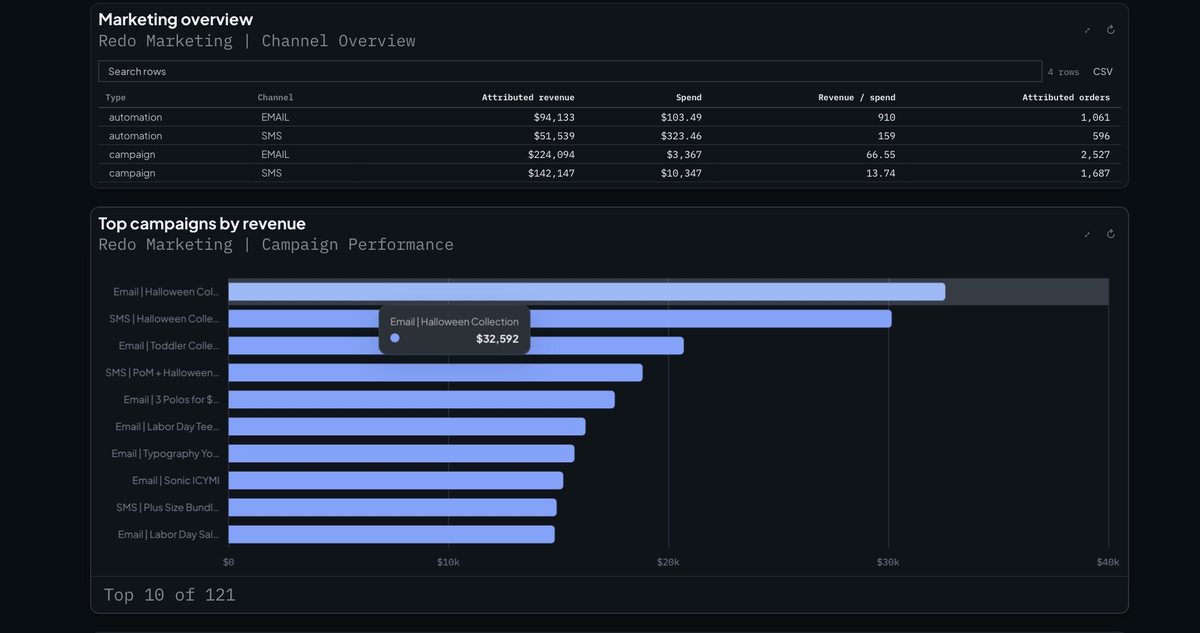
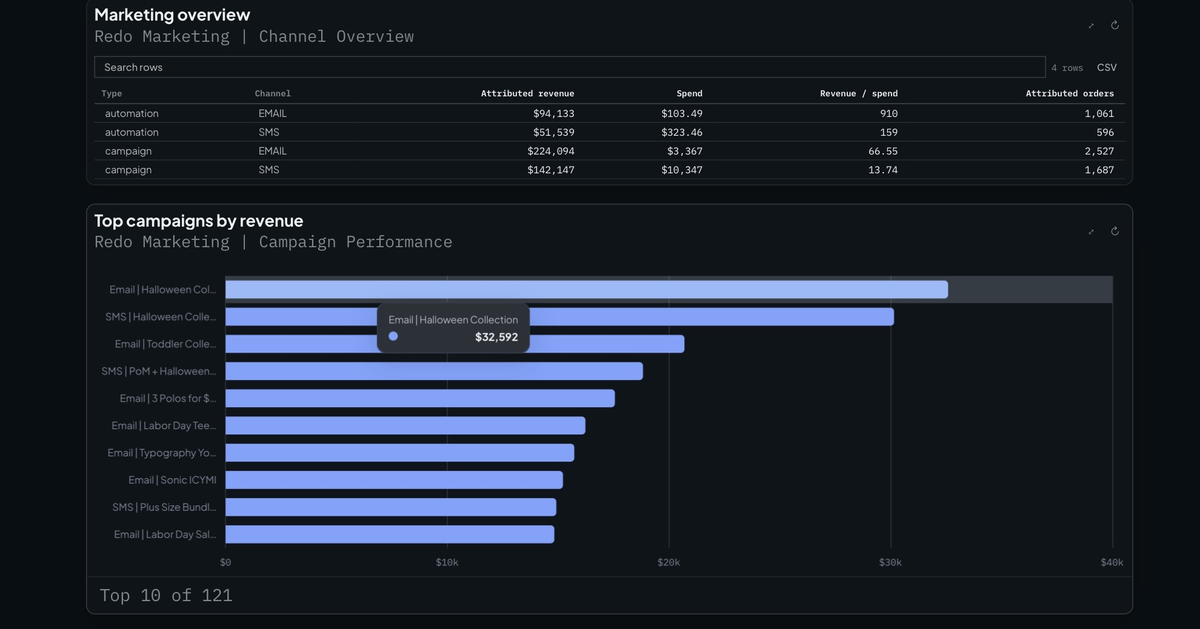
Redo welcome: AI-forward Ask preview and richer product frames
Replace the cramped Ask Silo screenshot with a structured HTML preview
(recommendation, evidence, query count). Re-crop marketing captures to
include KPI context and add gradient intelligence frames.

diff --git a/redo-welcome.html b/redo-welcome.html
@@ -6,7 +6,7 @@
   <title>Silo · Redo Marketing</title>
   <meta name="description" content="Silo connects to Redo and turns email and SMS into decision-ready reporting beside Shopify sales, ad spend, and margin. Ask Silo for the analysis. Early access for Redo Marketing customers." />
   <link rel="stylesheet" href="/v2/beacon.css" />
-  <link rel="stylesheet" href="/assets/landing/redo-welcome.css?v=5" />
+  <link rel="stylesheet" href="/assets/landing/redo-welcome.css?v=6" />
 </head>
 <body class="lp-demo-page">
   <svg xmlns="http://www.w3.org/2000/svg" class="lp-svg-defs" aria-hidden="true" focusable="false">
@@ -138,24 +138,30 @@
             <h3 id="lpBoardTitle">Redo Marketing Performance</h3>
             <span class="lp-board-range">Sample · Last 30 days</span>
           </header>
-          <p class="lp-board-note">Captures below are from a real Silo workspace; figures are Redo-attributed, not poster placeholders.</p>
+          <p class="lp-board-note">Live Silo boards — Redo-attributed revenue, spend, and campaign rank in the product you sign into.</p>
           <div class="lp-board-hero">
             <figure class="lp-demo">
-              <div class="lp-demo-frame">
-                <div id="lpDemoPlaceholder" class="lp-shot lp-shot--chart" data-asset="redo-demo-chart.png" data-alt="Daily Redo marketing spend trend">
-                  <p class="lp-shot-label">Interface image</p>
+              <div class="lp-intel-frame">
+                <span class="lp-intel-badge">Connected data</span>
+                <div class="lp-demo-frame">
+                  <div id="lpDemoPlaceholder" class="lp-shot lp-shot--chart" data-asset="redo-demo-chart.png" data-alt="Redo attributed revenue, spend, and daily trends">
+                    <p class="lp-shot-label">Interface image</p>
+                  </div>
+                  <!-- A real walkthrough replaces this frame only when LANDING_DEMO_VIDEO_URL is configured. -->
+                  <video id="lpDemoVideo" width="960" height="540" controls playsinline preload="none"
+                    aria-label="Silo product walkthrough" aria-describedby="lpDemoCaption" hidden></video>
                 </div>
-                <!-- A real walkthrough replaces this frame only when LANDING_DEMO_VIDEO_URL is configured. -->
-                <video id="lpDemoVideo" width="960" height="540" controls playsinline preload="none"
-                  aria-label="Silo product walkthrough" aria-describedby="lpDemoCaption" hidden></video>
               </div>
-              <figcaption id="lpDemoCaption" class="lp-demo-caption">Daily marketing spend from your connected Redo data.</figcaption>
+              <figcaption id="lpDemoCaption" class="lp-demo-caption">Attributed revenue and spend with daily trend — same Redo sync as your workspace.</figcaption>
             </figure>
           </div>
-          <figure class="lp-shot lp-shot--wide" data-asset="redo-demo-dashboard.png" data-alt="Redo marketing overview and top campaigns">
-            <p class="lp-shot-label">Interface image</p>
-          </figure>
-          <p class="lp-board-note lp-board-note--tight">Channel overview and campaign ranking in one board — same numbers you see after connect.</p>
+          <div class="lp-intel-frame lp-intel-frame--wide">
+            <span class="lp-intel-badge">Campaign intelligence</span>
+            <figure class="lp-shot lp-shot--wide" data-asset="redo-demo-dashboard.png" data-alt="Redo marketing overview and top campaigns">
+              <p class="lp-shot-label">Interface image</p>
+            </figure>
+          </div>
+          <p class="lp-board-note lp-board-note--tight">Channel mix, revenue per dollar spent, and what is winning — not a static poster mockup.</p>
         </article>
       </section>
 
@@ -176,9 +182,39 @@
           <li>Which campaign produced the highest contribution margin?</li>
           <li>Why did email revenue decline last week?</li>
         </ol>
-        <figure class="lp-shot lp-shot--ask" data-asset="redo-demo-ask-silo.png" data-alt="Ask Silo recommending the next Redo campaign">
-          <p class="lp-shot-label">Interface image</p>
-        </figure>
+        <div class="lp-ask-preview" aria-label="Example Ask Silo answer grounded in Redo data">
+          <header class="lp-ask-preview-head">
+            <span class="lp-ask-ai-pulse" aria-hidden="true"></span>
+            <span class="lp-ask-ai-title">Ask SILO</span>
+            <span class="lp-ask-ai-meta">Example · 5 SQL queries · Redo + Shopify</span>
+          </header>
+          <div class="lp-ask-thread">
+            <div class="lp-ask-user">
+              <p>Silo, give me the next Redo campaign based on the last month of SMS and email performance.</p>
+            </div>
+            <article class="lp-ask-agent">
+              <span class="lp-ask-agent-mark" aria-hidden="true">S</span>
+              <div class="lp-ask-agent-body">
+                <p class="lp-ask-rec"><strong>Recommend:</strong> Twin send for <em>Dugout Chatter</em> — same-day email + SMS on Oct 8.</p>
+                <div class="lp-ask-evidence">
+                  <div class="lp-ask-evidence-item">
+                    <span class="lp-ask-evidence-label">Why</span>
+                    <p>Halloween twin-channel drop cleared ~$62.7k attributed. SMS click rate 19.3% vs 0.97% email — SMS converts per message at ~3.8×.</p>
+                  </div>
+                  <div class="lp-ask-evidence-item">
+                    <span class="lp-ask-evidence-label">Avoid</span>
+                    <p>32 fragmented playoff sends totaled ~$29k with higher unsubscribes — one coordinated drop beats many small blasts.</p>
+                  </div>
+                </div>
+                <p class="lp-ask-footnote">Answer cites your Redo sends (152 in window), not generic marketing advice.</p>
+              </div>
+            </article>
+          </div>
+          <footer class="lp-ask-preview-foot">
+            <span class="lp-ask-queries">▶ 5 queries run</span>
+            <span class="lp-ask-save">Save report</span>
+          </footer>
+        </div>
       </section>
 
       <section class="lp-features" aria-labelledby="lpFeaturesHeading">

diff --git a/assets/landing/redo-welcome.css b/assets/landing/redo-welcome.css
@@ -394,10 +394,177 @@
   min-height: 280px;
   margin-top: 16px;
 }
-#landing .lp-shot--ask {
+#landing .lp-intel-frame {
+  position: relative;
+  padding: 1px;
+  border-radius: 14px;
+  background: linear-gradient(135deg, rgba(77, 124, 255, .85), rgba(124, 92, 255, .55) 45%, rgba(46, 224, 160, .45));
+  box-shadow: 0 12px 40px rgba(8, 20, 48, .45);
+}
+#landing .lp-intel-frame--wide { margin-top: 16px; }
+#landing .lp-intel-frame .lp-demo-frame,
+#landing .lp-intel-frame > .lp-shot {
+  border: none;
+  border-radius: 13px;
+}
+#landing .lp-intel-badge {
+  position: absolute;
+  top: 10px;
+  right: 10px;
+  z-index: 2;
+  padding: 5px 10px;
+  border-radius: 999px;
+  color: #eef3ff;
+  background: rgba(8, 16, 32, .82);
+  border: 1px solid rgba(125, 160, 255, .45);
+  font-family: var(--bcn-mono);
+  font-size: 10px;
+  font-weight: 700;
+  letter-spacing: .06em;
+  text-transform: uppercase;
+  pointer-events: none;
+}
+#landing .lp-ask-preview {
   grid-column: 1 / -1;
-  min-height: 220px;
   margin-top: 4px;
+  padding: 14px 14px 12px;
+  border-radius: 16px;
+  background: linear-gradient(165deg, #0a1020 0%, #060b14 55%, #050910 100%);
+  border: 1px solid #3d5288;
+  box-shadow: 0 0 0 1px rgba(47, 107, 255, .12), 0 24px 64px rgba(0, 0, 0, .35);
+}
+#landing .lp-ask-preview-head {
+  display: flex;
+  flex-wrap: wrap;
+  align-items: center;
+  gap: 8px 12px;
+  margin-bottom: 14px;
+  padding-bottom: 10px;
+  border-bottom: 1px solid #243352;
+}
+#landing .lp-ask-ai-pulse {
+  width: 10px;
+  height: 10px;
+  border-radius: 50%;
+  background: #3ee0a0;
+  box-shadow: 0 0 0 0 rgba(62, 224, 160, .55);
+  animation: lp-ai-pulse 2.4s ease-out infinite;
+}
+@keyframes lp-ai-pulse {
+  0% { box-shadow: 0 0 0 0 rgba(62, 224, 160, .55); }
+  70% { box-shadow: 0 0 0 10px rgba(62, 224, 160, 0); }
+  100% { box-shadow: 0 0 0 0 rgba(62, 224, 160, 0); }
+}
+#landing .lp-ask-ai-title {
+  color: #fff;
+  font-size: 13px;
+  font-weight: 800;
+  letter-spacing: .04em;
+}
+#landing .lp-ask-ai-meta {
+  margin-left: auto;
+  color: #93a0b8;
+  font-family: var(--bcn-mono);
+  font-size: 10px;
+  font-weight: 500;
+}
+#landing .lp-ask-thread { display: grid; gap: 12px; }
+#landing .lp-ask-user {
+  justify-self: end;
+  max-width: min(100%, 420px);
+  padding: 12px 14px;
+  border-radius: 14px 14px 4px 14px;
+  background: #17284a;
+  border: 1px solid #3458b0;
+  color: #e7eefc;
+  font-size: 14px;
+  line-height: 1.45;
+}
+#landing .lp-ask-user p { margin: 0; }
+#landing .lp-ask-agent {
+  display: grid;
+  grid-template-columns: 36px minmax(0, 1fr);
+  gap: 10px;
+  align-items: start;
+}
+#landing .lp-ask-agent-mark {
+  display: grid;
+  place-items: center;
+  width: 36px;
+  height: 36px;
+  border-radius: 10px;
+  background: linear-gradient(145deg, #2a5cf0, #183aab);
+  color: #fff;
+  font-size: 14px;
+  font-weight: 800;
+}
+#landing .lp-ask-agent-body {
+  padding: 12px 14px;
+  border-radius: 12px;
+  background: rgba(12, 20, 36, .92);
+  border: 1px solid #2c4474;
+}
+#landing .lp-ask-rec {
+  margin: 0;
+  color: #eef3ff;
+  font-size: 15px;
+  line-height: 1.5;
+}
+#landing .lp-ask-rec em { color: #9eb6ff; font-style: normal; font-weight: 700; }
+#landing .lp-ask-evidence {
+  display: grid;
+  gap: 8px;
+  margin-top: 12px;
+}
+#landing .lp-ask-evidence-item {
+  padding: 10px 12px;
+  border-radius: 10px;
+  background: rgba(6, 16, 48, .45);
+  border: 1px solid #243352;
+}
+#landing .lp-ask-evidence-label {
+  display: inline-block;
+  margin-bottom: 4px;
+  color: #3ee0a0;
+  font-family: var(--bcn-mono);
+  font-size: 10px;
+  font-weight: 700;
+  letter-spacing: .08em;
+  text-transform: uppercase;
+}
+#landing .lp-ask-evidence-item p {
+  margin: 0;
+  color: #c8d4ec;
+  font-size: 13px;
+  line-height: 1.45;
+}
+#landing .lp-ask-footnote {
+  margin: 10px 0 0;
+  color: #8b97ad;
+  font-size: 12px;
+  line-height: 1.4;
+}
+#landing .lp-ask-preview-foot {
+  display: flex;
+  flex-wrap: wrap;
+  align-items: center;
+  gap: 10px;
+  margin-top: 12px;
+  padding-top: 10px;
+  border-top: 1px solid #243352;
+  color: #93a0b8;
+  font-family: var(--bcn-mono);
+  font-size: 11px;
+}
+#landing .lp-ask-save {
+  margin-left: auto;
+  padding: 6px 12px;
+  border-radius: 8px;
+  background: #14213c;
+  border: 1px solid #2a3d62;
+  color: #b9ccff;
+  font-size: 11px;
+  font-weight: 600;
 }
 #landing .lp-demo-frame video {
   display: block;
@@ -607,5 +774,6 @@
   #landing .lp-kpi-grid { grid-template-columns: minmax(0, 1fr); }
 }
 @media (prefers-reduced-motion: reduce) {
+  #landing .lp-ask-ai-pulse { animation: none; }
   #landing .bcn-btn, #landing .lp-cta { transition: none; }
 }

diff --git a/assets/landing/README.md b/assets/landing/README.md
@@ -19,12 +19,14 @@ frame on the same navy field as the board.
 
 | File | Slot |
 |------|------|
-| `redo-demo-chart.png` | Daily Redo marketing spend chart (960×285 crop) |
-| `redo-demo-dashboard.png` | Marketing overview table + top campaigns (1200×633) |
-| `redo-demo-ask-silo.png` | Ask Silo Redo campaign recommendation (1200×633) |
+| `redo-demo-chart.png` | Redo attributed revenue, spend, and daily trend (1100×592) |
+| `redo-demo-dashboard.png` | Marketing overview table + top campaigns (1200×629) |
 
-Shipped from dark-mode Silo captures on the welcome branch. The board no longer
-shows duplicate placeholder KPIs beside these frames.
+Ask Silo on the welcome page is an HTML preview (readable recommendation +
+evidence cards), not a screenshot — the product chat is too dense at poster size.
+
+Shipped from dark-mode Silo captures. Gradient frames mark live product UI vs
+poster copy.
 
 ## Still fallback (unchanged)
 
